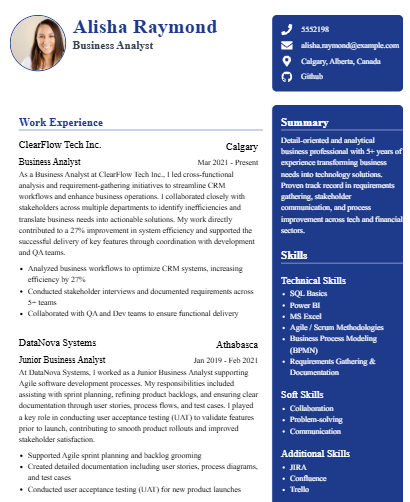
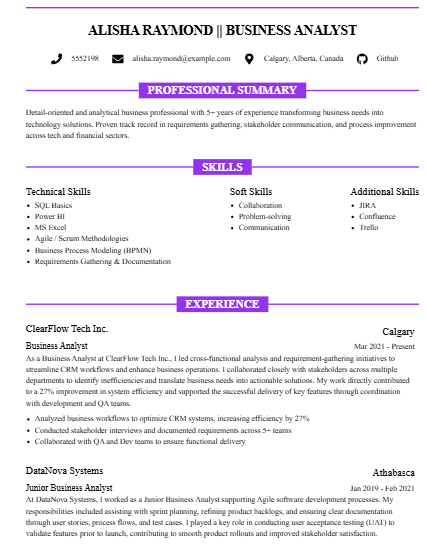
template 34 updated

diff --git a/components/preview/Template34.jsx b/components/preview/Template34.jsx
@@ -297,6 +297,7 @@ import { ImageWrapper, SummaryWrapper, TextWrapper } from "./Common";
 import { SkillsWrapper } from "./SkillWrapper";
 import WorkExperience from "./WorkExperience";
 import ProjectsSection from "./ProjectSection";
+import SectionDivider from "./SectionDivider";
 
 // Importing draggable components dynamically
 const DragDropContext = dynamic(
@@ -339,8 +340,8 @@ const Template34 = () => {
   return (
     <div
       ref={templateRef}
-      className="border-t-4"
-      style={{ fontFamily: `${selectedFont}`, borderColor: `${backgroundColorss}` }}
+      className=""
+      style={{ fontFamily: `${selectedFont}`, borderTop: `3px solid ${backgroundColorss}` }}
     >
 
       <div className="header text-center mb-6 mt-6 [&>div]:justify-center">
@@ -368,32 +369,36 @@ const Template34 = () => {
           />
         </div>
       </div>
-
-      <SummaryWrapper
-        summary={resumeData.summary}
-        headerColor={"black"}
-        editable={true} // Set to false if editing is not required
-        className="mt-4 text-center"
-      />
-     <section className="skills mb-6">
+    
+<SectionDivider title="PROFESSIONAL SUMMARY" backgroundColor={backgroundColorss} />
+<SummaryWrapper
+  summary={resumeData.summary}
+  headerColor={"black"}
+  editable={true}
+  className="mt-4 [&>h2]:hidden"
+/>
+    <SectionDivider title="SKILLS" backgroundColor={backgroundColorss} />
+     <section className="skills mb-6"> 
         <SkillsWrapper
           skills={resumeData.skills}
           headerColor={backgroundColorss}
           droppableId="skills-section-1"
-          className="mt-4"
+          className="mt-4 flex flex-row justify-between"
           layout="column"
           textColor="black"
+          Hidden="hidden"
         />
       </section>
 
       <section className="experience mb-6">
         {/* <h2 className="text-lg font-bold mb-2.5 uppercase border-b border-black pb-0.5 " style={{ color: headerColor }}>Professional Experience</h2> */}
 
-        <div className="col-span-2 space-y-2">
+            <SectionDivider title="EXPERIENCE" backgroundColor={backgroundColorss} />
+          <div className="col-span-2 space-y-2">
           <WorkExperience
             itemClassNames={{
               title:
-                "text-lg font-bold mb-1 border-b-2 border-gray-300 editable",
+                "text-lg font-bold mb-1 border-b-2 border-gray-300 editable hidden",
               company: "font-semibold",
               position: "content",
               location: "sub-content",
@@ -401,10 +406,18 @@ const Template34 = () => {
             resumeData={resumeData}
             headerColor={backgroundColorss}
           />
-          <ProjectsSection
-            resumeData={resumeData}
-            headerColor={backgroundColorss}
-          />
+    <SectionDivider title="EDUCATION" backgroundColor={backgroundColorss} />
+            <EducationSection
+              itemClassNames={{
+                school: "",
+                degree: "",
+                location: "",
+              }}
+              layout="row"
+              educationData={resumeData?.education}
+              headerColor={backgroundColorss}
+              className="[&>h2]:hidden"
+            />
         </div>
       </section>
 
@@ -421,32 +434,32 @@ const Template34 = () => {
               <p className="">{item.school}</p>
             </div>
           ))} */}
-            <EducationSection
-              itemClassNames={{
-                school: "",
-                degree: "",
-                location: "",
-              }}
-              layout="row"
-              educationData={resumeData?.education}
-              headerColor={backgroundColorss}
+        <SectionDivider title="PROJECTS" backgroundColor={backgroundColorss} />
+        <ProjectsSection
+                resumeData={resumeData}
+                headerColor={backgroundColorss}
+                Hidden="hidden"
             />
           </div>
         )}
       </section>
+      <SectionDivider title="CERTIFICATION" backgroundColor={backgroundColorss} />
       <section className="certification mb-6">
         <Certification
           title="Certifications"
           certifications={resumeData.certifications}
           hasBullet={false}
           headerColor={"black"}
+          className="[&>h2]:hidden"
         />
       </section>
+      <SectionDivider title="LANGUAGE" backgroundColor={backgroundColorss} />
       <section className="language mb-6">
         <Language
           title="Languages"
           languages={resumeData.languages}
           headerColor={"black"}
+          Hidden="hidden"
         />
       </section>
     </div>

diff --git a/components/preview/Common3.jsx b/components/preview/Common3.jsx
@@ -118,16 +118,19 @@ const SummaryWrapper = ({
       <div className={`mb-1 ${className}`}>
         <h2
           style={{
-            color: `${
+            // color: `${
+            //   headerColor == "black" ? `${backgroundColorss}` : headerColor
+            // }`,
+            // borderBottom: `1px solid ${
+            //   headerColor == "black" ? `${backgroundColorss}` : headerColor
+            // }`,
+            backgroundColor: `${
               headerColor == "black" ? `${backgroundColorss}` : headerColor
-            }`,
-            borderBottom: `1px solid ${
-              headerColor == "black" ? `${backgroundColorss}` : headerColor
-            }`,
+            }`
           }}
           contentEditable
           suppressContentEditableWarning
-          className="text-xl font-semibold mb-1"
+          className="text-xl font-semibold mb-1 text-center"
         >
           Summary
         </h2>

diff --git a/components/preview/ProjectSection.jsx b/components/preview/ProjectSection.jsx
@@ -15,7 +15,7 @@ const Draggable = dynamic(
   () => import("react-beautiful-dnd").then((mod) => mod.Draggable),
   { ssr: false }
 );
-const ProjectsSection = ({ resumeData, headerColor }) => {
+const ProjectsSection = ({ resumeData, headerColor, Hidden }) => {
   if (!resumeData?.projects || resumeData.projects.length === 0) {
     return null;
   }
@@ -27,7 +27,7 @@ const ProjectsSection = ({ resumeData, headerColor }) => {
       {(provided) => (
         <div {...provided.droppableProps} ref={provided.innerRef}>
           <h2
-            className="text-xl font-semibold mb-1 border-b-2 border-gray-300 editable"
+            className={`text-xl font-semibold mb-1 border-b-2 border-gray-300 editable ${Hidden}`}
             contentEditable
             suppressContentEditableWarning
             style={{

diff --git a/components/preview/Template32.jsx b/components/preview/Template32.jsx
@@ -34,7 +34,7 @@ import { ImageWrapper, SummaryWrapper, TextWrapper } from "./Common1";
 import WorkExperience from "./WorkExperience";
 import ProjectsSection from "./ProjectSection";
 import { SkillsWrapper } from "./SkillWrapper";
-import EducationSection from "./Education";
+import EducationSection1 from "./Education1";
 // Importing draggable components dynamically
 const DragDropContext = dynamic(
   () => import("react-beautiful-dnd").then((mod) => mod.DragDropContext),
@@ -179,7 +179,7 @@ const Template32 = () => {
           </div>
 
           <div className="mb-5">
-            <EducationSection
+            <EducationSection1
               itemClassNames={{
                 school: "",
                 degree: "",

diff --git a/components/preview/SectionDivider.jsx b/components/preview/SectionDivider.jsx
@@ -1,0 +1,24 @@
+const SectionDivider = ({ title, backgroundColor }) => {
+  return (
+    <div className="flex items-center mb-2 mt-8">
+      <div
+        className="flex-grow border-t-4"
+        style={{ borderTop: `3px solid ${backgroundColor}` }}
+      />
+      <h2
+        style={{ backgroundColor }}
+        contentEditable
+        suppressContentEditableWarning
+        className="text-xl font-semibold px-4 text-center text-white"
+      >
+        {title}
+      </h2>
+      <div
+        className="flex-grow border-t-4"
+        style={{ borderTop: `3px solid ${backgroundColor}` }}
+      />
+    </div>
+  );
+};
+
+export default SectionDivider;

diff --git a/components/preview/Language.jsx b/components/preview/Language.jsx
@@ -51,7 +51,7 @@
 import React, { useContext } from "react";
 import { ResumeContext } from "../context/ResumeContext";
 
-const Language = ({ title, languages, headerColor }) => {
+const Language = ({ title, languages, headerColor, Hidden }) => {
   const { backgroundColorss } = useContext(ResumeContext);
 
   return (
@@ -70,7 +70,7 @@ const Language = ({ title, languages, headerColor }) => {
             }}
             contentEditable
             suppressContentEditableWarning
-            className="text-xl font-semibold mb-1"
+            className={`text-xl font-semibold mb-1 ${Hidden}`}
           >
             {title}
           </h2>

diff --git a/components/preview/SkillWrapper.jsx b/components/preview/SkillWrapper.jsx
@@ -10,6 +10,7 @@ const SkillsWrapper = ({
   droppableId = "skills",
   className = "",
   textColor = "white",
+  Hidden="",
 
   layout,
 }) => {
@@ -25,7 +26,7 @@ const SkillsWrapper = ({
             headerColor == "black" ? `${backgroundColorss}` : headerColor
           }`,
         }}
-        className="text-xl font-semibold mb-1 "
+        className={`text-xl font-semibold mb-1 ${Hidden}`}
         contentEditable
         suppressContentEditableWarning
       >
